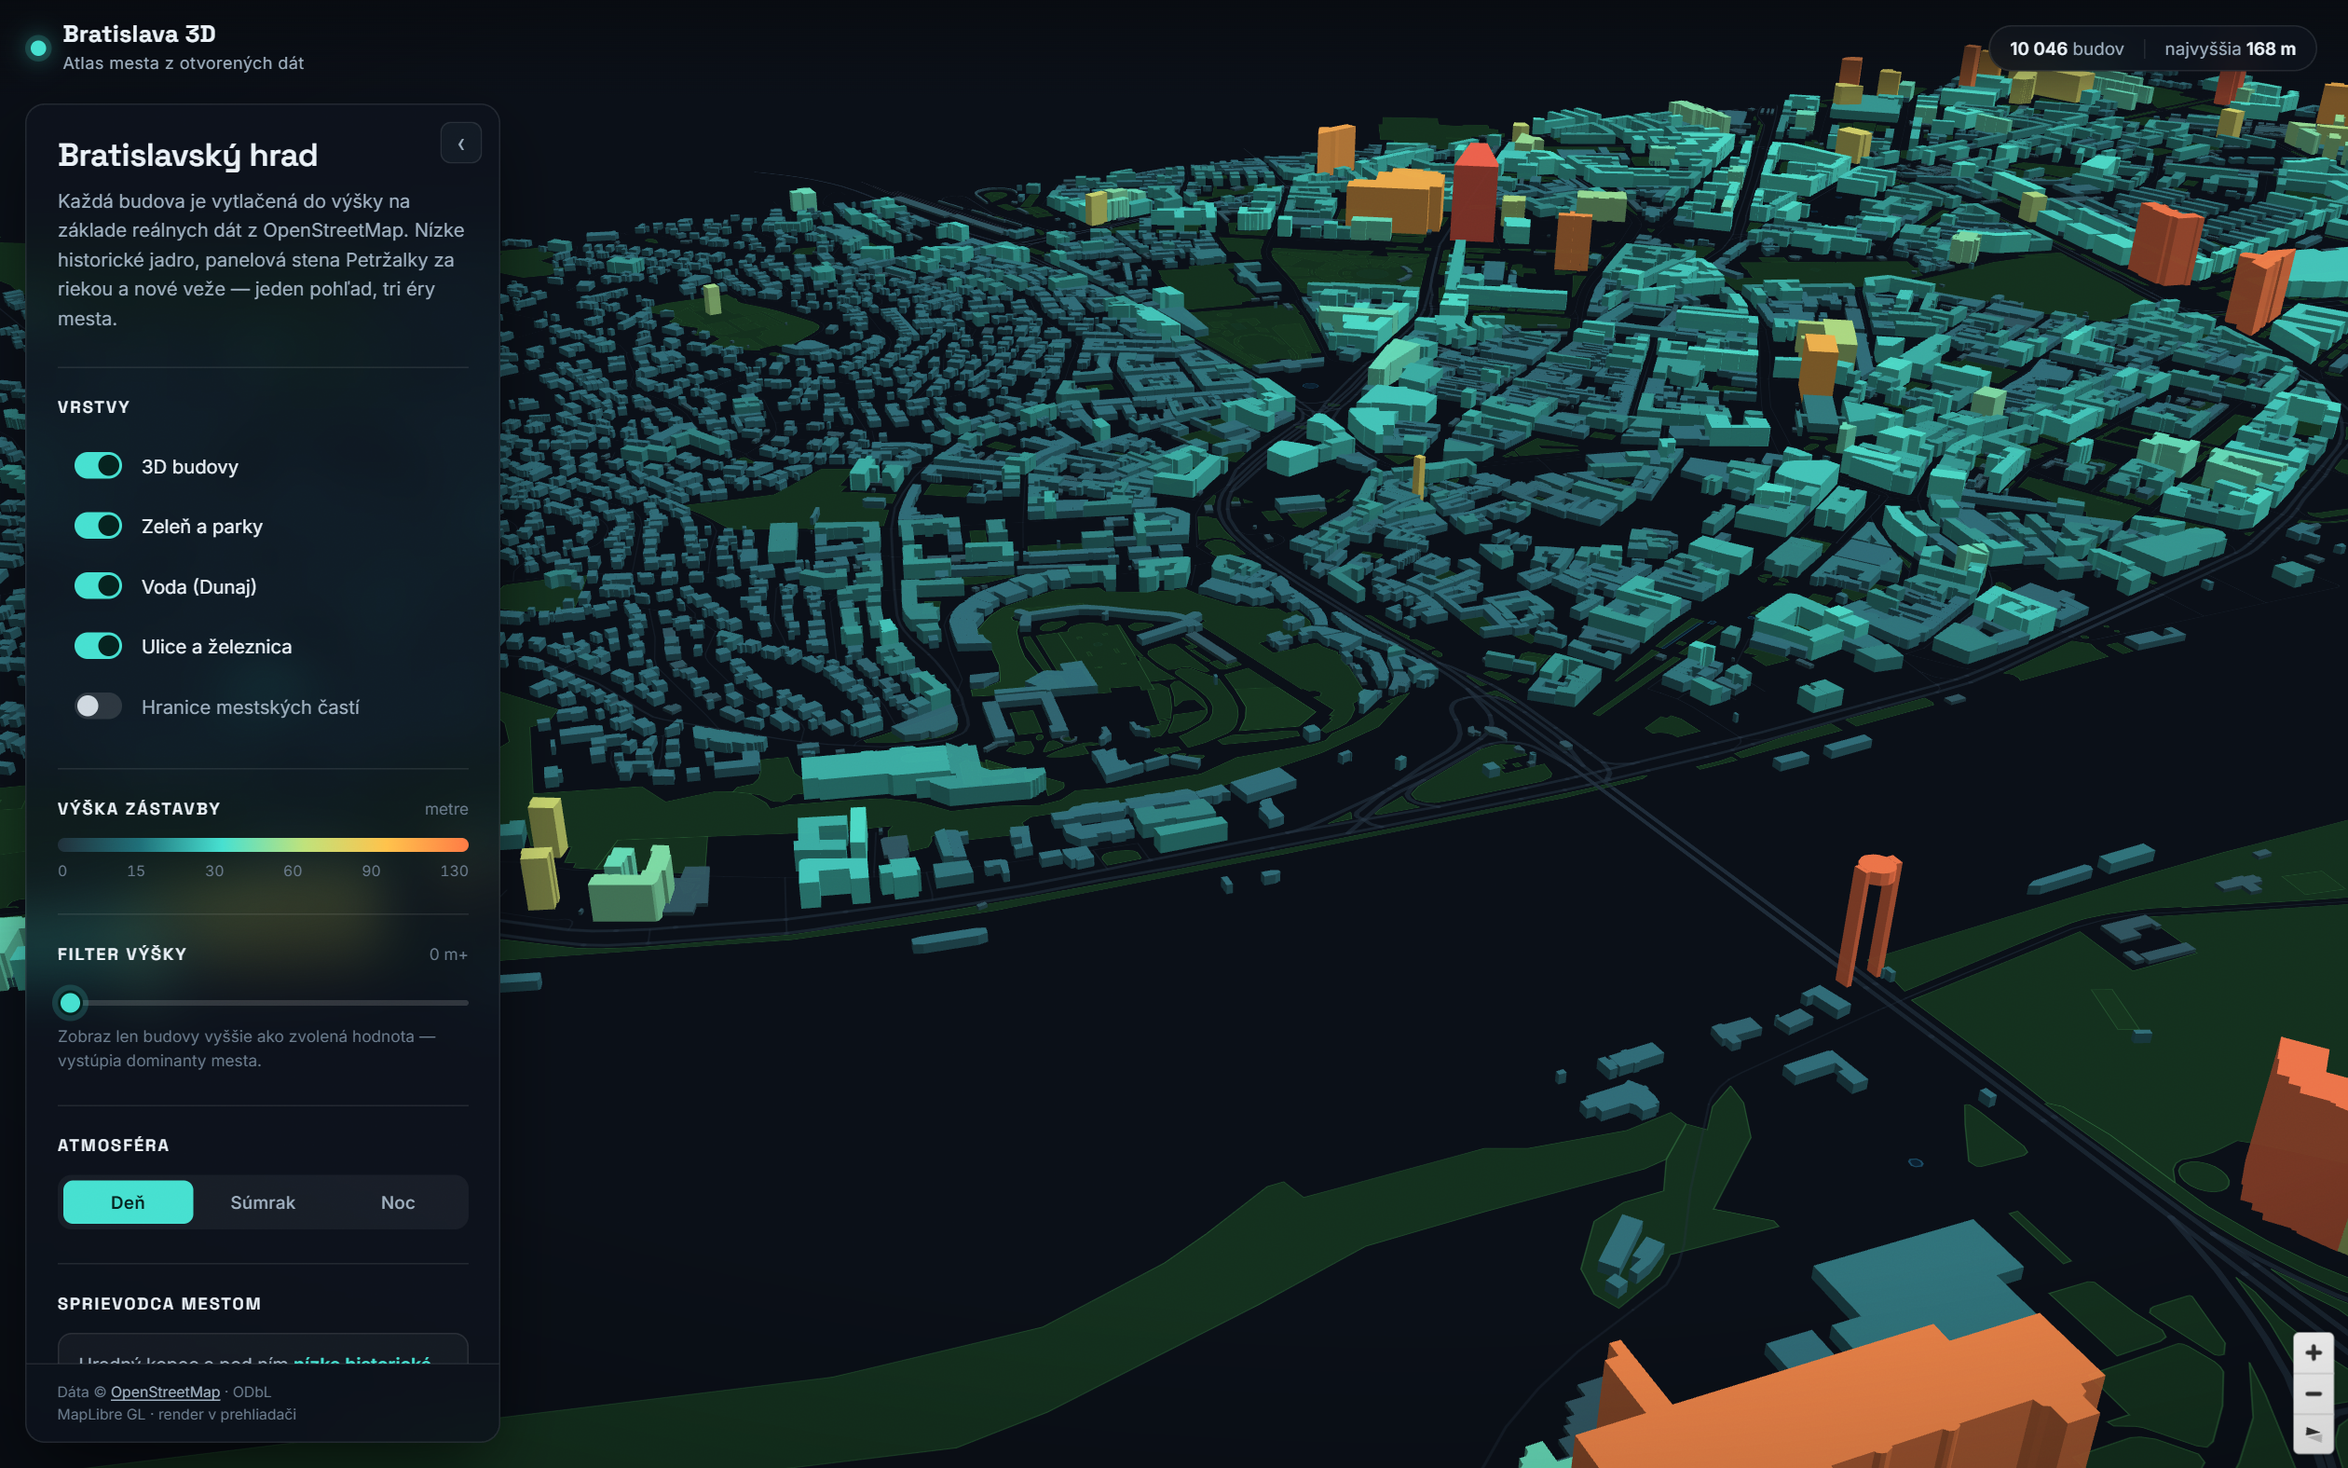
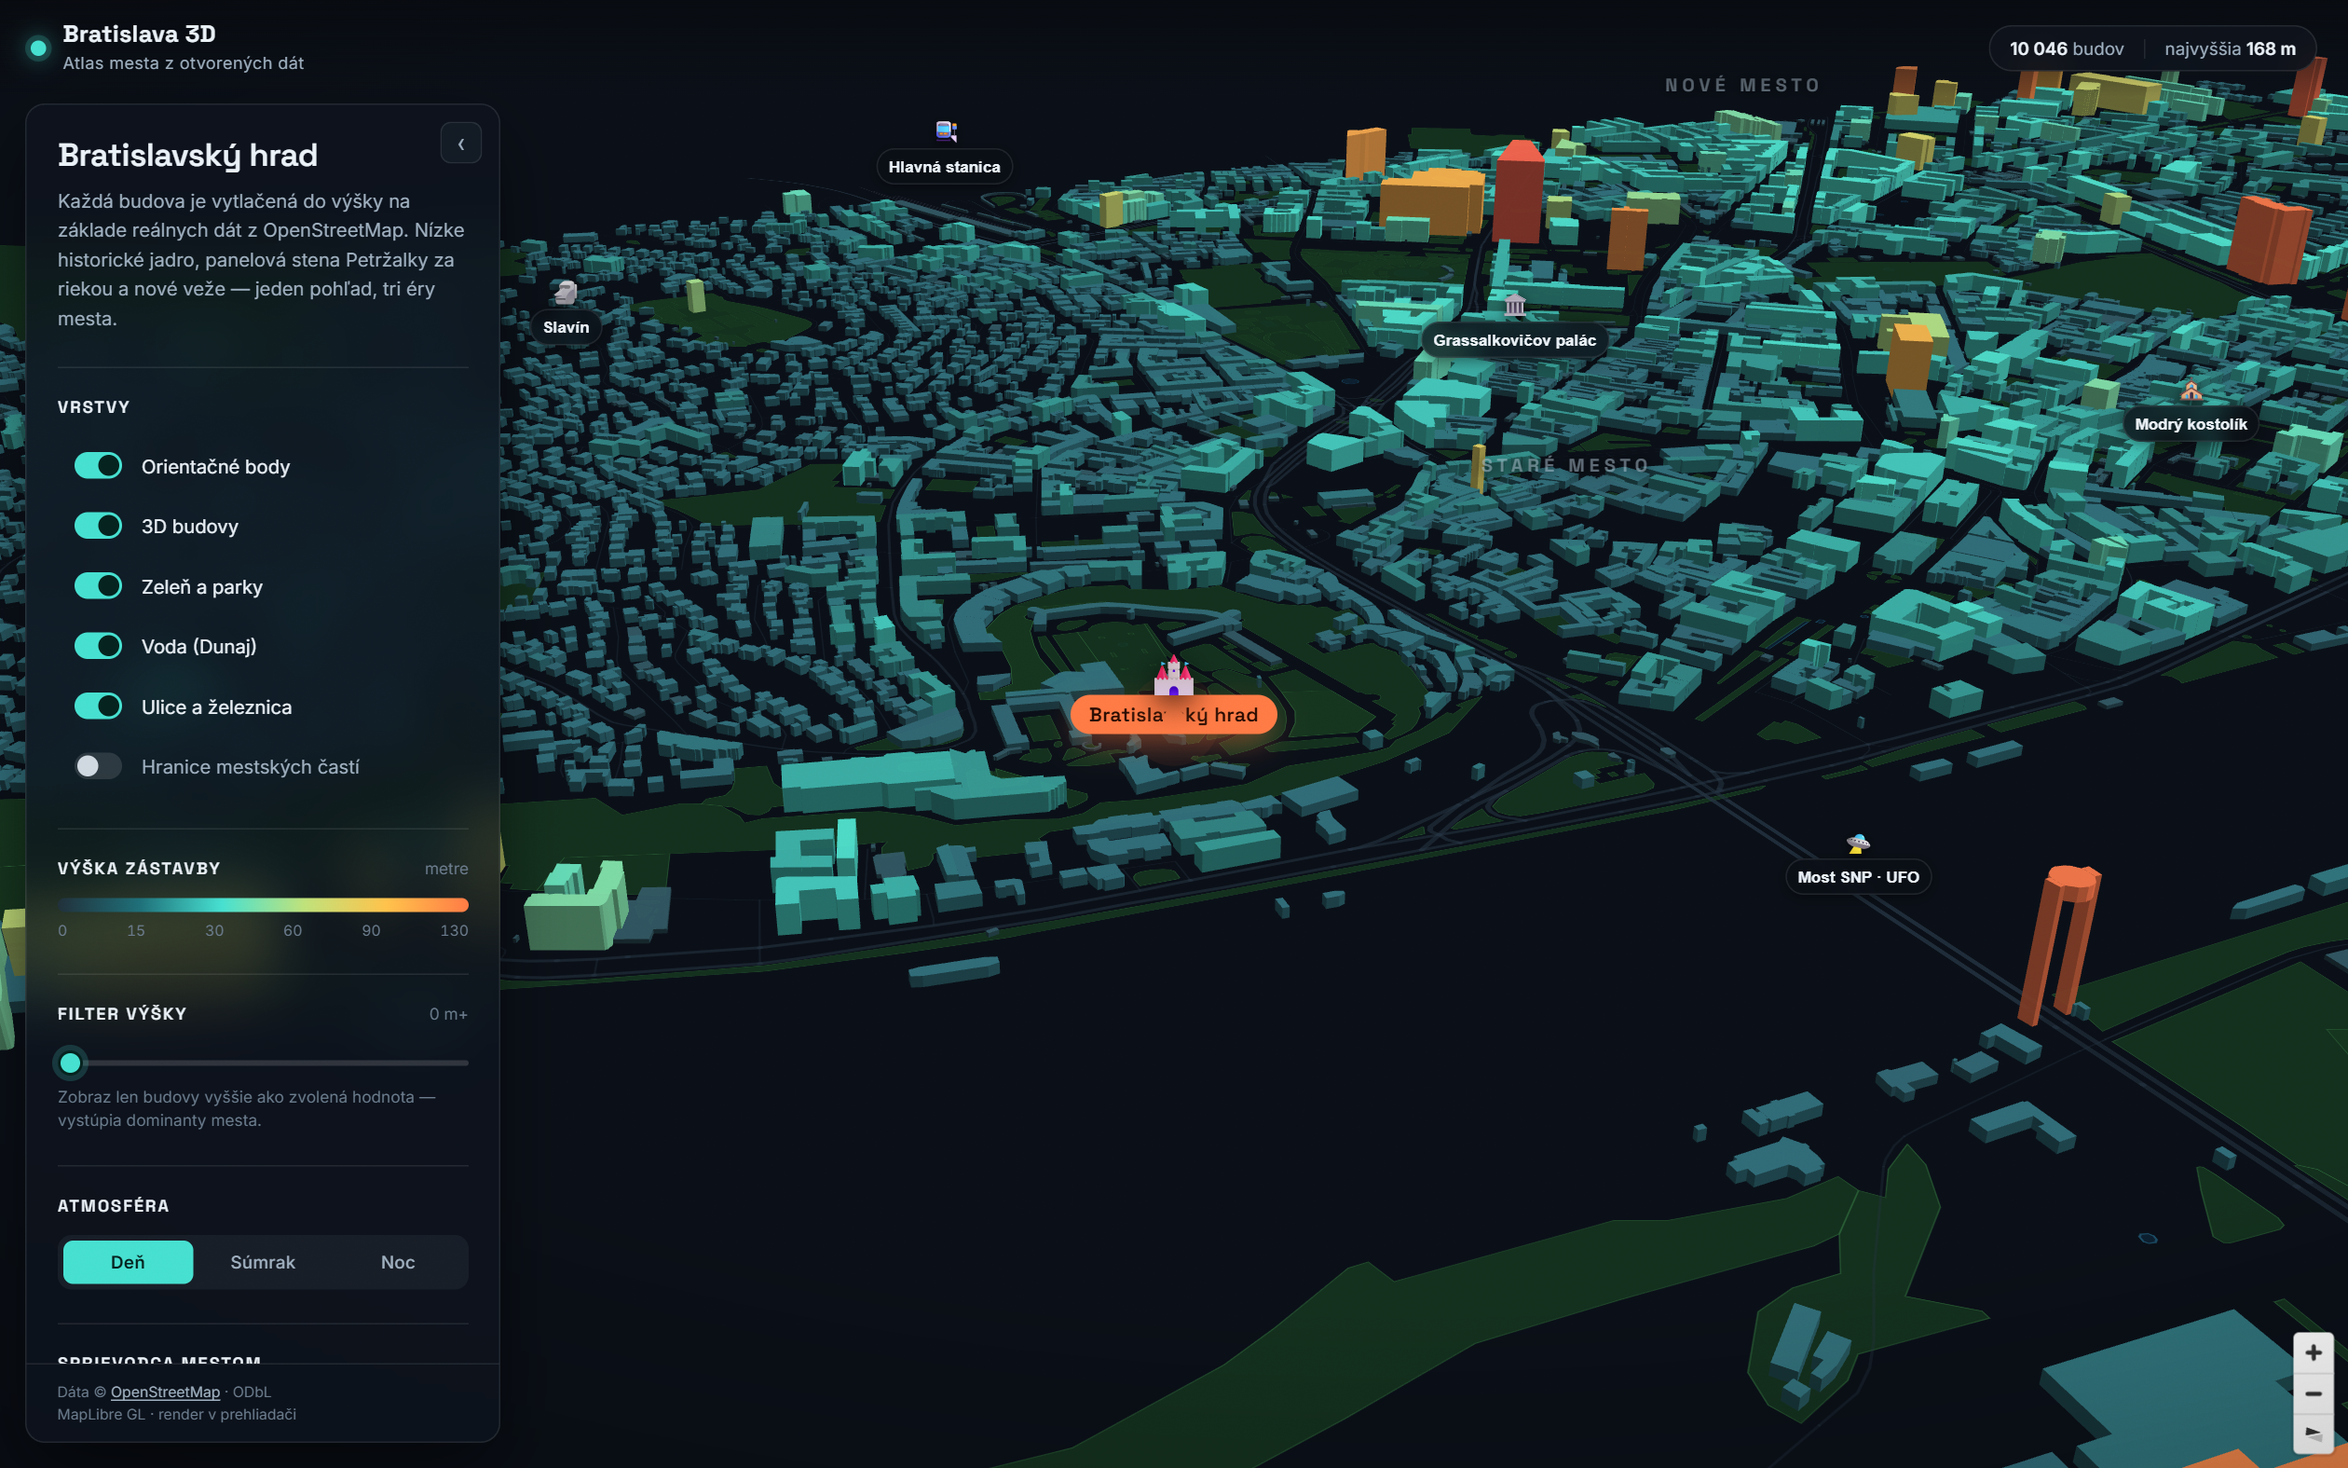
Orientačné body (ikony + názvy) a sprievodca, čo ukazuje na subjekt
- 15 pomenovaných bodov (Hrad, Most SNP, Eurovea Tower, Sky Park, Slavín…)
  + názvy štvrtí; pri oddialení len ikony, pri priblížení s menovkami
- sprievodca: na každej zastávke pulzujúci špendlík na konkrétnom mieste,
  statické body sa stlmia — koniec 'prebliknutia bez kontextu'
- presné súradnice dominánt overené z centroidov dát (Eurovea 168 m, Sky Park)

diff --git a/src/app.js b/src/app.js
@@ -10,6 +10,27 @@ const HEIGHT_RAMP = [
   40, '#bfe27a', 60, '#ffc24b', 90, '#ff7a45', 130, '#ff4d4d',
 ];
 
+/* ---- orientačné body: pin = známe miesto, area = názov štvrte ---- */
+const LANDMARKS = [
+  { t:'pin',  icon:'🏰', name:'Bratislavský hrad',     at:[17.1003,48.1419] },
+  { t:'pin',  icon:'🛸', name:'Most SNP · UFO',          at:[17.1045,48.1383] },
+  { t:'pin',  icon:'⛪', name:'Modrý kostolík',          at:[17.1170,48.1437] },
+  { t:'pin',  icon:'🏛', name:'Grassalkovičov palác',    at:[17.1106,48.1486] },
+  { t:'pin',  icon:'🎭', name:'SND',                     at:[17.1238,48.1404] },
+  { t:'pin',  icon:'🏢', name:'Eurovea Tower · 168 m',   at:[17.1271,48.1398] },
+  { t:'pin',  icon:'🏙', name:'Sky Park',                at:[17.1255,48.1446] },
+  { t:'pin',  icon:'🚌', name:'Stanica Nivy',            at:[17.1300,48.1462] },
+  { t:'pin',  icon:'🚉', name:'Hlavná stanica',          at:[17.1065,48.1590] },
+  { t:'pin',  icon:'🗿', name:'Slavín',                  at:[17.0972,48.1531] },
+  { t:'pin',  icon:'🌳', name:'Sad Janka Kráľa',         at:[17.1045,48.1340] },
+  { t:'area', name:'STARÉ MESTO',  at:[17.1085,48.1455] },
+  { t:'area', name:'PETRŽALKA',    at:[17.1075,48.1175] },
+  { t:'area', name:'NOVÉ MESTO',   at:[17.1290,48.1610] },
+  { t:'area', name:'RUŽINOV',      at:[17.1470,48.1530] },
+];
+let lmMarkers = [];
+let focusMarker = null;
+
 /* ---- atmosphere presets ---- */
 const MOODS = {
   day:   { bg:'#0b1018', light:[1.1,0.55,0.4], lightPos:[1.3,120,40], boost:1.0,  fog:'rgba(120,150,170,.0)' },
@@ -123,6 +144,7 @@ map.on('load', async () => {
 
   applyLight('day');
   computeStats(buildings);
+  buildLandmarks();
   wireUI();
   setTimeout(() => document.getElementById('loader').classList.add('hide'), 350);
 
@@ -176,44 +198,85 @@ function kindLabel(k) {
   return map[k] || (k || 'budova');
 }
 
+/* ---------- orientačné body (HTML markery) ---------- */
+function buildLandmarks() {
+  for (const lm of LANDMARKS) {
+    const el = document.createElement('div');
+    if (lm.t === 'area') {
+      el.className = 'lm lm-area';
+      el.textContent = lm.name;
+    } else {
+      el.className = 'lm lm-pin';
+      el.innerHTML = `<span class="lm-dot">${lm.icon}</span><span class="lm-label">${lm.name}</span>`;
+    }
+    const m = new maplibregl.Marker({ element: el, anchor: lm.t === 'area' ? 'center' : 'bottom' })
+      .setLngLat(lm.at).addTo(map);
+    m._kind = lm.t;
+    lmMarkers.push(m);
+  }
+  // pri oddialení ukáž len ikonky (názvy by sa prekrývali)
+  const setZoomClass = () => document.body.classList.toggle('zoom-far', map.getZoom() < 14.2);
+  setZoomClass();
+  map.on('zoom', setZoomClass);
+}
+function showLandmarks(v) {
+  document.body.classList.toggle('hide-lm', !v);
+}
+
 /* ---------- guided tour ---------- */
 const TOUR = [
-  { title:'Mesto ako model', center:[17.1105,48.1395], zoom:13.7, pitch:56, bearing:-19,
-    text:'Celá scéna je poskladaná <b>výhradne z otvorených dát</b> — žiadna podkladová mapa. Presne ako fyzický 3D model, len v prehliadači.' },
-  { title:'Bratislavský hrad', center:[17.1006,48.1417], zoom:15.4, pitch:62, bearing:24,
-    text:'Hradný kopec a pod ním <b>nízke historické jadro</b> — Staré Mesto si drží drobnú mierku stáročia.' },
-  { title:'Staré Mesto', center:[17.1135,48.1448], zoom:15.3, pitch:64, bearing:-34,
-    text:'Kompaktná bloková zástavba. Väčšina budov má <b>4–6 podlaží</b> — mestská látka, ktorú dnes urbanisti chránia.' },
-  { title:'Nové veže', center:[17.1235,48.1400], zoom:15.4, pitch:66, bearing:18,
-    text:'Eurovea, Sky Park, Nivy. <b>Najvyššia vrstva ramp</b> — výškové dominanty z posledných rokov, kde mesto rastie nahor.' },
-  { title:'Most SNP a nábrežie', center:[17.1045,48.1385], zoom:15.2, pitch:66, bearing:-46,
-    text:'Dunaj ako os mesta. Na druhom brehu sa začína <b>úplne iná mierka</b>.' },
-  { title:'Petržalka', center:[17.1060,48.1230], zoom:14.3, pitch:58, bearing:8,
-    text:'Panelová „stena“ — jedno z <b>najhustejšie obývaných sídlisk</b> v strednej Európe. Kontrast voči jadru je tu doslova hmatateľný.' },
+  { title:'Mesto ako model', center:[17.1105,48.1395], zoom:13.6, pitch:54, bearing:-19,
+    text:'Celá scéna je poskladaná <b>výhradne z otvorených dát</b> — žiadna podkladová mapa. Presne ako fyzický 3D model, len v prehliadači. Ikonky ukazujú, kde čo je.' },
+  { title:'Bratislavský hrad', focus:[17.1003,48.1419], icon:'🏰', zoom:15.6, pitch:64, bearing:24,
+    text:'Hradný kopec a pod ním <b>nízke historické jadro</b> — Staré Mesto si stáročia drží drobnú mierku.' },
+  { title:'Staré Mesto', focus:[17.1135,48.1445], icon:'🏛', zoom:15.4, pitch:65, bearing:-34,
+    text:'Kompaktná bloková zástavba, väčšina budov <b>4–6 podlaží</b> — mestská látka, ktorú dnes urbanisti chránia.' },
+  { title:'Eurovea Tower', focus:[17.1271,48.1398], icon:'🏢', zoom:15.7, pitch:66, bearing:18,
+    text:'Najvyššia budova Slovenska — <b>168 m</b>. Spolu so Sky Parkom a Nivami tvorí nové výškové ťažisko mesta.' },
+  { title:'Most SNP · UFO', focus:[17.1045,48.1383], icon:'🛸', zoom:15.4, pitch:67, bearing:-46,
+    text:'Dunaj ako os mesta. Na druhom brehu sa začína <b>úplne iná mierka</b> — Petržalka.' },
+  { title:'Petržalka', focus:[17.1075,48.1210], icon:'🏘', zoom:14.4, pitch:60, bearing:8,
+    text:'Panelová „stena“ — jedno z <b>najhustejšie obývaných sídlisk</b> v strednej Európe. Kontrast voči jadru je tu hmatateľný.' },
 ];
 let tourIdx = -1, tourPlaying = false, tourTimer = null;
+
+function setFocus(stop) {
+  if (focusMarker) { focusMarker.remove(); focusMarker = null; }
+  if (!stop.focus) return;
+  const el = document.createElement('div');
+  el.className = 'lm-focus';
+  el.innerHTML = `<span class="lm-focus-ring"></span><span class="lm-focus-pin">${stop.icon}</span>`
+    + `<span class="lm-focus-label">${stop.title}</span>`;
+  focusMarker = new maplibregl.Marker({ element: el, anchor: 'bottom' })
+    .setLngLat(stop.focus).addTo(map);
+}
 
 function gotoStop(i, fly = true) {
   tourIdx = (i + TOUR.length) % TOUR.length;
   const s = TOUR[tourIdx];
   document.getElementById('story-title').textContent = s.title;
   document.getElementById('tour-caption').innerHTML = s.text;
-  map[fly ? 'flyTo' : 'jumpTo']({ center: s.center, zoom: s.zoom, pitch: s.pitch,
-    bearing: s.bearing, duration: 2600, essential: true });
+  setFocus(s);
+  map[fly ? 'flyTo' : 'jumpTo']({ center: s.focus || s.center, zoom: s.zoom, pitch: s.pitch,
+    bearing: s.bearing, duration: 3400, curve: 1.5, essential: true });
 }
 function playTour() {
   tourPlaying = true;
-  document.getElementById('tour-play').classList.add('playing');
-  document.getElementById('tour-play').textContent = '⏸ Zastaviť';
+  document.body.classList.add('touring');   // počas auto-prehliadky stlm statické body
+  const b = document.getElementById('tour-play');
+  b.classList.add('playing');
+  b.textContent = '⏸ Zastaviť prehliadku';
   const step = () => {
     gotoStop(tourIdx + 1);
-    tourTimer = setTimeout(step, 5200);
+    tourTimer = setTimeout(step, 6000);
   };
   step();
 }
 function stopTour() {
   tourPlaying = false;
   clearTimeout(tourTimer);
+  document.body.classList.remove('touring');
+  if (focusMarker) { focusMarker.remove(); focusMarker = null; }
   const b = document.getElementById('tour-play');
   b.classList.remove('playing');
   b.textContent = '▶ Spustiť prehliadku';
@@ -239,6 +302,9 @@ function wireUI() {
   toggle('t-water', 'water', 'water-edge');
   toggle('t-roads', 'roads');
   toggle('t-districts', 'districts');
+
+  // landmarks are DOM markers, not map layers
+  document.getElementById('t-landmarks').addEventListener('change', (e) => showLandmarks(e.target.checked));
 
   // height filter
   const hf = document.getElementById('height-filter');

diff --git a/src/style.css b/src/style.css
@@ -124,6 +124,32 @@ input[type=range]::-moz-range-thumb{width:16px;height:16px;border-radius:50%;bac
 .panel-reveal{top:84px;left:18px;opacity:0;pointer-events:none;transition:opacity .3s}
 .panel-reveal.show{opacity:1;pointer-events:auto}
 
+/* ---------- orientačné body (markery) ---------- */
+.lm{user-select:none;-webkit-user-select:none}
+.lm-pin{display:flex;flex-direction:column;align-items:center;cursor:default;transition:opacity .3s}
+.lm-pin .lm-dot{font-size:17px;line-height:1;filter:drop-shadow(0 2px 4px rgba(0,0,0,.7))}
+.lm-pin .lm-label{margin-top:3px;font-size:11px;font-weight:600;color:var(--ink);white-space:nowrap;
+  background:rgba(10,14,20,.74);backdrop-filter:blur(6px);border:1px solid var(--line);
+  padding:2px 8px;border-radius:999px;letter-spacing:.2px;box-shadow:0 2px 10px rgba(0,0,0,.45)}
+.lm-area{font-family:"Space Grotesk";font-size:13px;font-weight:600;letter-spacing:3.5px;
+  color:rgba(180,200,215,.5);text-shadow:0 1px 8px rgba(0,0,0,.9);white-space:nowrap;pointer-events:none}
+
+body.hide-lm .lm{display:none}
+body.zoom-far .lm-pin .lm-label{display:none}      /* oddialené → len ikonky */
+body.touring .lm-pin{opacity:.14}                   /* auto-tour → stlm statické */
+body.touring .lm-area{opacity:.22}
+
+/* tour focus — pulzujúci špendlík na subjekte */
+.lm-focus{display:flex;flex-direction:column;align-items:center;pointer-events:none;position:relative}
+.lm-focus-ring{position:absolute;bottom:2px;left:50%;width:16px;height:16px;transform:translateX(-50%);
+  border-radius:50%;background:var(--accent-warm);animation:pulse 1.9s infinite}
+@keyframes pulse{0%{box-shadow:0 0 0 0 rgba(255,122,69,.55)}70%{box-shadow:0 0 0 28px rgba(255,122,69,0)}100%{box-shadow:0 0 0 0 rgba(255,122,69,0)}}
+.lm-focus-pin{font-size:30px;filter:drop-shadow(0 5px 10px rgba(0,0,0,.75));animation:drop .5s cubic-bezier(.2,.8,.2,1)}
+@keyframes drop{0%{transform:translateY(-20px);opacity:0}100%{transform:none;opacity:1}}
+.lm-focus-label{margin-top:4px;font-family:"Space Grotesk";font-size:14px;font-weight:600;color:#2a0d02;
+  background:var(--accent-warm);padding:4px 13px;border-radius:999px;white-space:nowrap;letter-spacing:.3px;
+  box-shadow:0 8px 22px -5px rgba(255,122,69,.6)}
+
 /* ---------- inspector ---------- */
 .inspector{position:absolute;right:18px;bottom:18px;z-index:7;width:268px;
   background:var(--glass-2);backdrop-filter:blur(20px);border:1px solid var(--line);

diff --git a/index.html b/index.html
@@ -49,6 +49,7 @@
           <h2>Vrstvy</h2>
         </div>
         <div class="toggles">
+          <label class="tg"><input type="checkbox" id="t-landmarks" checked><span>Orientačné body</span></label>
           <label class="tg"><input type="checkbox" id="t-buildings" checked><span>3D budovy</span></label>
           <label class="tg"><input type="checkbox" id="t-green" checked><span>Zeleň a parky</span></label>
           <label class="tg"><input type="checkbox" id="t-water" checked><span>Voda (Dunaj)</span></label>

diff --git a/fetch_landmarks.py b/fetch_landmarks.py
@@ -1,0 +1,53 @@
+#!/usr/bin/env python3
+"""Precise coordinates for named landmarks (so the map pins sit on the real thing)."""
+import json, urllib.parse, urllib.request, time
+
+UA = "bratislava-3d/1.0"
+ENDPOINTS = [
+    "https://overpass.private.coffee/api/interpreter",
+    "https://overpass-api.de/api/interpreter",
+    "https://maps.mail.ru/osm/tools/overpass/api/interpreter",
+    "https://overpass.kumi.systems/api/interpreter",
+]
+
+
+def overpass(q, timeout=50):
+    for ep in ENDPOINTS:
+        try:
+            data = urllib.parse.urlencode({"data": q}).encode()
+            req = urllib.request.Request(ep, data=data,
+                headers={"User-Agent": UA, "Accept": "application/json"})
+            with urllib.request.urlopen(req, timeout=timeout) as r:
+                return json.loads(r.read().decode())
+        except Exception as ex:
+            print("  miss", ep.split('//')[1].split('/')[0], type(ex).__name__)
+            time.sleep(1)
+    return {"elements": []}
+
+
+Q = """[out:json][timeout:50];
+(
+  nwr["historic"="castle"]["name"~"Bratislavsk",i](48.135,17.09,48.150,17.11);
+  nwr["name"="Eurovea Tower"](48.13,17.11,48.15,17.14);
+  nwr["name"~"^Nivy Tower"](48.13,17.11,48.16,17.14);
+  nwr["name"~"Sky Park"](48.14,17.10,48.16,17.13);
+  nwr["railway"="station"]["name"~"Bratislava hlavn",i](48.15,17.09,48.17,17.12);
+  nwr["name"~"Grassalkovich",i](48.14,17.10,48.16,17.12);
+  nwr["historic"="memorial"]["name"="Slavín"](48.14,17.08,48.16,17.11);
+  nwr["man_made"="bridge"]["name"~"Most SNP"](48.13,17.09,48.145,17.115);
+  nwr["bridge:name"="Most SNP"](48.13,17.09,48.145,17.115);
+  nwr["amenity"="theatre"]["name"~"Slovensk.*n.rodn.*divadlo",i](48.135,17.115,48.145,17.13);
+);
+out center 1;"""
+
+d = overpass(Q)
+seen = {}
+for el in d.get("elements", []):
+    t = el.get("tags", {})
+    name = t.get("name", "?")
+    lat = el.get("lat") or el.get("center", {}).get("lat")
+    lon = el.get("lon") or el.get("center", {}).get("lon")
+    if lat and lon and name not in seen:
+        seen[name] = (round(lon, 5), round(lat, 5))
+        print(f"{name:34} [{lon:.5f}, {lat:.5f}]")
+print("\nJSON:", json.dumps(seen, ensure_ascii=False))
